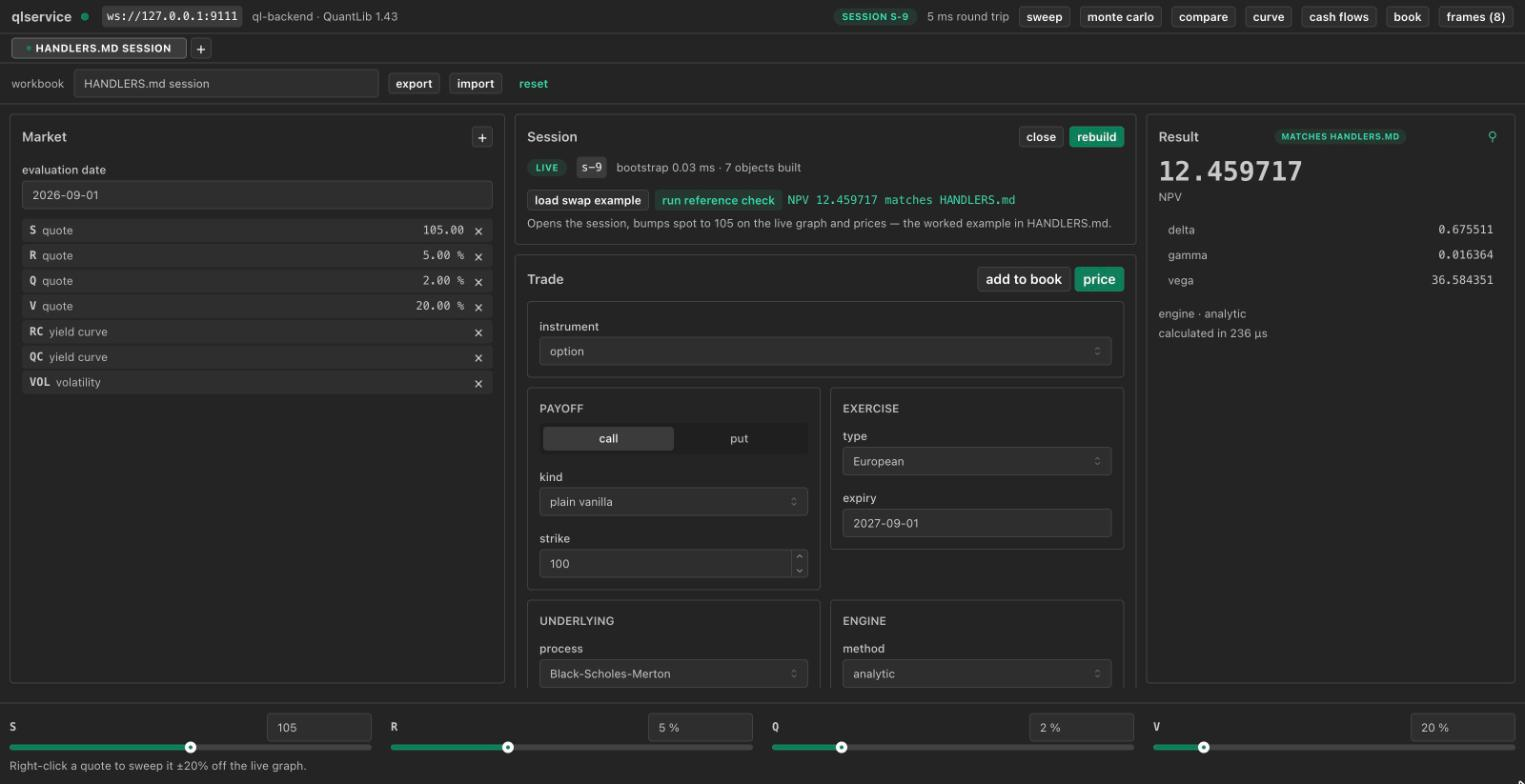
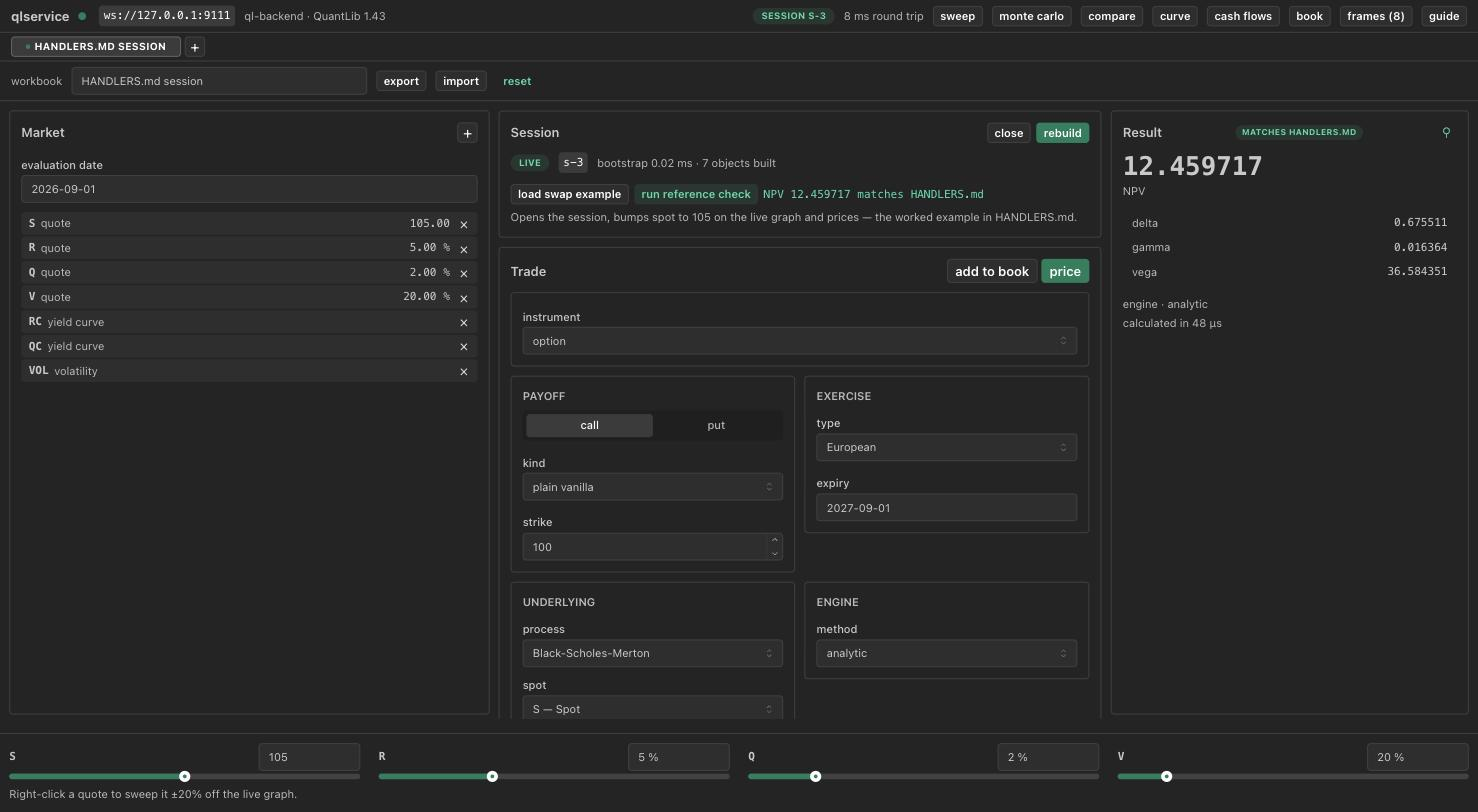
Put the guide one click from the workbench
A `guide` button at the end of the status bar row, beside the panels. It opens
the built documentation in a tab of its own rather than in a panel, and the
reason is the same one the rest of this client is arranged around: a session
dies with its socket, so navigating away to read the maths would take the warm
graph with it.

The address is doc/_build/html/index.html, which is where `npm run docs` writes
it and which the dev server serves from the project root; a deployment that
puts it elsewhere sets VITE_DOCS_URL, and .env.example says so. If it has not
been built the link is a 404 rather than a lie about what it points at — the
tooltip names the command.

The screenshot in doc/images is retaken rather than annotated, so the figure
has the button the text now describes.

Claude-Session: https://claude.ai/code/session_01MJtVZSjTSgWshw7miPwQ9g

diff --git a/src/components/StatusBar.tsx b/src/components/StatusBar.tsx
@@ -8,6 +8,16 @@ import {wireActions} from "@/store/wireSlice";
 
 const STATUS_COLOR = {connected: "teal", connecting: "yellow", disconnected: "red"} as const;
 
+/** The built user's guide.
+ *
+ *  `npm run docs` writes it to doc/_build/html, which the dev server serves
+ *  from the project root; a deployment that puts it somewhere else sets
+ *  VITE_DOCS_URL. It opens in a tab of its own rather than in a panel: the
+ *  guide is read beside the workbench, not instead of it, and a socket that
+ *  dies while the reader is in the maths chapter would be a poor trade.
+ */
+const DOCS_URL = import.meta.env.VITE_DOCS_URL ?? "/doc/_build/html/index.html";
+
 export const StatusBar = () => {
     const dispatch = useAppDispatch();
     const connection = useAppSelector(s => s.connection);
@@ -112,6 +122,11 @@ export const StatusBar = () => {
                 <Button size="compact-xs" variant="default" onClick={() => dispatch(wireActions.toggled())}>
                     frames ({frames})
                 </Button>
+                <Tooltip label="The user's guide: how to drive this, and the mathematics behind every number it shows. Built by `npm run docs`; opens in a new tab." multiline w={300}>
+                    <Button component="a" href={DOCS_URL} target="_blank" rel="noreferrer" size="compact-xs" variant="default">
+                        guide
+                    </Button>
+                </Tooltip>
             </Group>
         </Group>
     );

diff --git a/e2e/app.spec.ts b/e2e/app.spec.ts
@@ -30,6 +30,17 @@ test("loads and shows the market it will open with", async ({page}) => {
     await expectNoWindowScroll(page);
 });
 
+test("the guide is one click away, in a tab of its own", async ({page}) => {
+    // A reference the reader keeps open beside the workbench. It opens in a
+    // new tab on purpose: this app's sessions die with the socket, and
+    // navigating away to read the maths would take the graph with it.
+    const guide = page.getByRole("link", {name: "guide"});
+    await expect(guide).toBeVisible();
+    await expect(guide).toHaveAttribute("target", "_blank");
+    await expect(guide).toHaveAttribute("href", /index\.html$/);
+    await expectNoWindowScroll(page);
+});
+
 test("the frame never scrolls, however tall the trade gets", async ({page}) => {
     // The swap is the tallest thing this app builds; the centre column has to
     // absorb it rather than the window.

diff --git a/doc/interface.md b/doc/interface.md
@@ -15,8 +15,9 @@ Four full-width bands, and three columns between them:
 **The status bar** carries everything about the connection in one line: the
 service and the QuantLib it linked, the socket address, the session id, the
 round trip of the last request, and — while something is running — the cancel.
-The buttons on its right open the panels: sweep, Monte Carlo, compare, curve,
-cash flows, book, and the frame inspector.
+The buttons on its right open the panels — sweep, Monte Carlo, compare,
+curve, cash flows, book and the frame inspector — and **guide**, which opens
+this document in a tab of its own.
 
 **The tab bar.** One workbook per tab, each with its own session on the same
 socket. `+` opens another.

diff --git a/README.md b/README.md
@@ -24,7 +24,8 @@ the session and the trade down the middle, the result on the right, and the
 quote bar along the bottom — that bar is the live one, and dragging it is the
 edit that costs nothing. The buttons at the top right open the panels — sweep,
 Monte Carlo, compare, curve, cash flows, book — between the columns and the
-quote bar. [The interface](doc/interface.md) in the guide walks through it.
+quote bar, and **guide** at the end of that row opens the user's guide in a
+tab of its own. [The interface](doc/interface.md) walks through all of it.
 
 ## What you can do with it
 

diff --git a/UI.md b/UI.md
@@ -77,6 +77,7 @@ not of the graph, so it costs a price and never a rebuild.
 | **add to book** on a trade | Sets it aside beside the live one; **price the book** sends them all in one frame |
 | **from last price** on the implied-volatility card | Fills in the NPV that came back last, which is the question that card exists for |
 | **cancel** in the status bar | Stops whatever is running, and the tooltip says what that costs |
+| **guide** in the status bar | Opens the user's guide (`doc/`) in a tab of its own |
 
 ## Things the interface tells you that the schema does not
 
